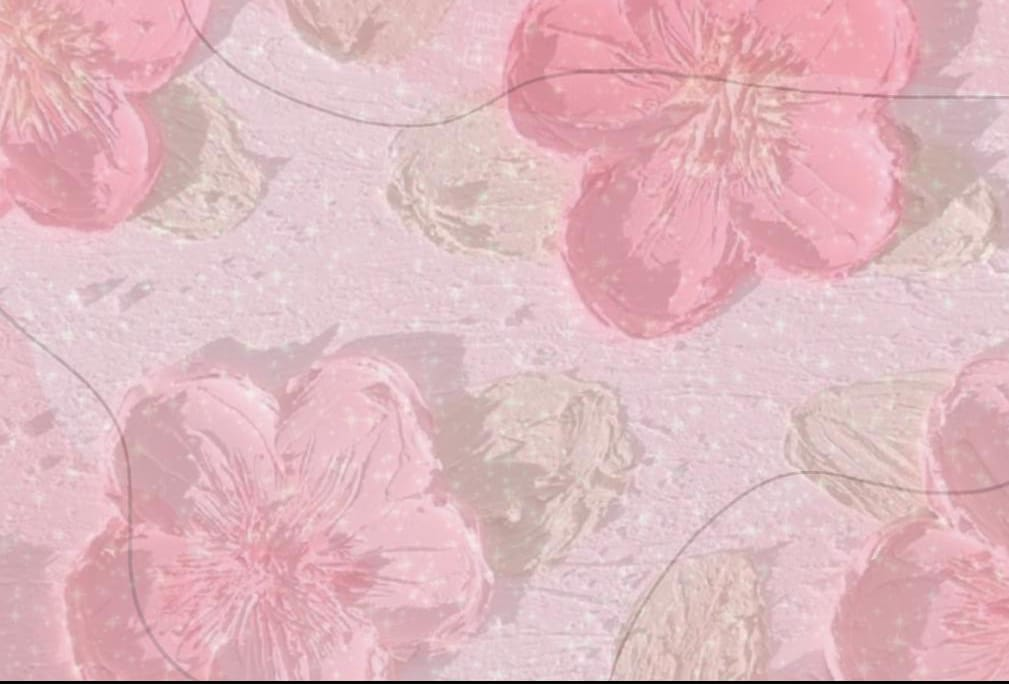
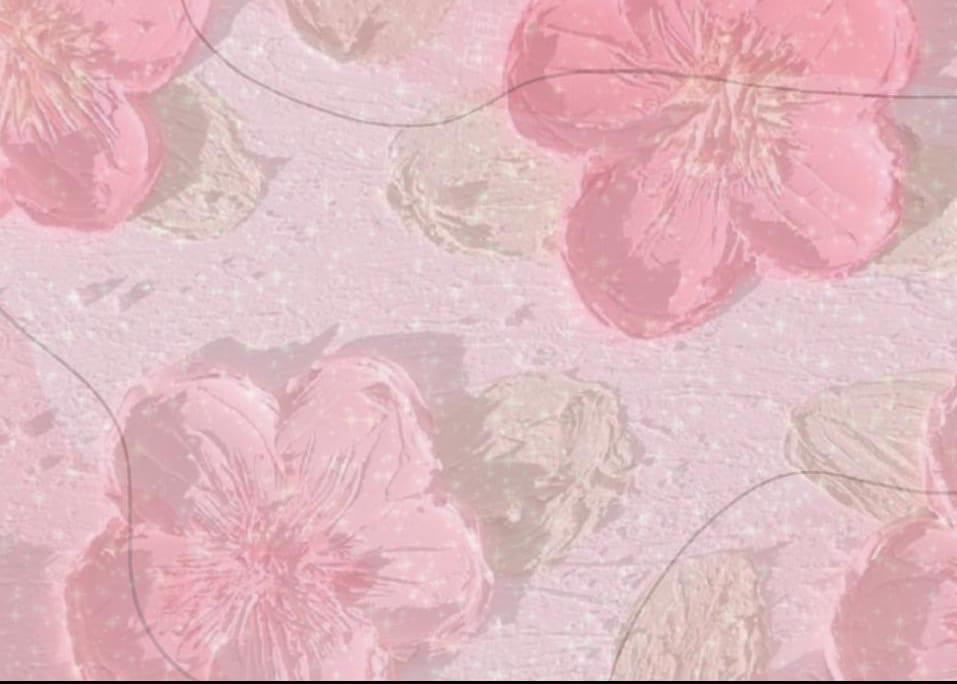
Refactor project structure and complete core option panels
- Moved and reorganized state classes into gui.states package
- Centralized utility class in gui.utils (ImageUtils)
- Updated CakeBuilderScreen and related GUI components structure
- Organized image assets into logical categories (sponges, icings, flowers, backgrounds)
- Completed Sponge, Icing, and Flower option panels
- Improved overall project maintainability, readability, and UI workflow consistency

diff --git a/src/gui/screens/CakeBuilderScreen.java b/src/gui/screens/CakeBuilderScreen.java
@@ -1,5 +1,9 @@
 package gui.screens;
 
+import gui.states.FlowerMode;
+import gui.states.IcingMode;
+import gui.states.SpongeMode;
+
 import javax.swing.*;
 import java.awt.*;
 import java.util.Objects;
@@ -7,21 +11,19 @@ import java.util.Objects;
 public class CakeBuilderScreen extends JFrame {
 
     Image previewBg=new ImageIcon("resources/images/backgrounds/yellowCoffee.png").getImage();
-    Image spongeScreenBg=new ImageIcon("resources/images/backgrounds/blueClouds.png").getImage();
-    Image icingScreenBg =new ImageIcon("resources/images/backgrounds/greenCotton.png").getImage();
-    Image flowerScreenBg=new ImageIcon("resources/images/backgrounds/pinkFlowers.png.png").getImage();
-    Image optionsBg=spongeScreenBg;
+    Image optionsBg;
+
+
+    private JLabel optionsTitle = new JLabel();
 
     Font ruschaleFont;
-
 
     enum State{
         SPONGE_SELECTION_SCREEN,
         ICING_SELECTION_SCREEN,
         FLOWER_SELECTION_SCREEN
     }
-
-    private State state = State.SPONGE_SELECTION_SCREEN;
+    private State state = State.FLOWER_SELECTION_SCREEN;
 
     JPanel options = new JPanel(new BorderLayout()){
         @Override
@@ -39,13 +41,8 @@ public class CakeBuilderScreen extends JFrame {
         }
     };
 
-    OptionButtons spongeOptionButtons = new OptionButtons();
-    OptionButtons icingOptionButtons = new OptionButtons();
-    OptionButtons flowerOptionButtons = new OptionButtons();
-
     JSplitPane screenSplit = new JSplitPane(JSplitPane.HORIZONTAL_SPLIT, options, preview);
 
-    JLabel optionsTitle = new JLabel();
 
     public CakeBuilderScreen(){
 
@@ -53,7 +50,7 @@ public class CakeBuilderScreen extends JFrame {
         setSize(1400, 1000);
         setDefaultCloseOperation(EXIT_ON_CLOSE);
 
-        add(screenSplit);
+        this.add(screenSplit);
 
         try{
             ruschaleFont = Font.createFont(Font.TRUETYPE_FONT, Objects.requireNonNull(getClass().getResourceAsStream("/fonts/Amsterdune-K7a8p.otf"))
@@ -74,37 +71,40 @@ public class CakeBuilderScreen extends JFrame {
         screenSplit.setDividerLocation(0.66);
         screenSplit.setEnabled(false);
         screenSplit.setDividerSize(3);
-        //preview.setBackground(new Color(255, 220, 105, 229));  ADDS PLAIN BACKGROUND COLOR TO PREVIEW PANEL
     }
 
-    private void setOptionsBackgroung(Image image){
-        optionsBg = image;
+    public void setOptionsBg(Image image){
+        this.optionsBg = image;
         options.repaint();
+    }
+
+    public void setOptionsTitle(String optionsTitle){
+        this.optionsTitle.setText(optionsTitle);
+    }
+
+    public void setOptionsPanel(JPanel panel){
+        options.add(panel);
     }
 
     private void renderScreen(){
         switch (state){
             case SPONGE_SELECTION_SCREEN: {
-                setOptionsBackgroung(spongeScreenBg);
-                optionsTitle.setText("Choose your cakes sponge base!");
-
-
+                SpongeMode spongeMode=new SpongeMode(this);
             }
             break;
             case ICING_SELECTION_SCREEN: {
-                setOptionsBackgroung(icingScreenBg);
-
+                IcingMode icingMode=new IcingMode(this);
             }
             break;
             case FLOWER_SELECTION_SCREEN: {
-                setOptionsBackgroung(flowerScreenBg);
-
+                FlowerMode flowerMode=new FlowerMode(this);
             }
             break;
         }
     }
 
     public static void main(String[] s){
-        new CakeBuilderScreen();
+        CakeBuilderScreen c=new CakeBuilderScreen();
+        System.out.println("CakeBuilderScreen constructor running");
     }
 }

diff --git a/src/gui/components/OptionButtonsPanel.java b/src/gui/components/OptionButtonsPanel.java
@@ -1,0 +1,61 @@
+package gui.components;
+
+import javax.swing.*;
+import java.awt.*;
+import java.util.Objects;
+
+public class OptionButtonsPanel extends JPanel {
+
+    Font ruschaleFont;
+
+    private JButton option1 = new JButton();
+    private JButton option2 = new JButton();
+    private JButton option3 = new JButton();
+    private JButton option4 = new JButton();
+
+    public OptionButtonsPanel(){
+
+        try{
+            ruschaleFont = Font.createFont(Font.TRUETYPE_FONT, Objects.requireNonNull(getClass().getResourceAsStream("/fonts/Amsterdune-K7a8p.otf"))
+            ).deriveFont(100f);
+        } catch (Exception e){
+            ruschaleFont = new Font("Serif",Font.BOLD, 48);
+        }
+
+        this.setLayout(new GridLayout(2,2,10,10));
+        this.setBorder(BorderFactory.createEmptyBorder(50,200,75,0));
+        this.setBackground(new Color(0,0,0,0));
+        this.setOpaque(false);
+
+        this.add(this.option1);
+        this.add(this.option2);
+        this.add(this.option3);
+        this.add(this.option4);
+    }
+
+    private void setOptionButton(JButton button, ImageIcon image, String buttonText){
+        button.setIcon(image);
+        button.setText(buttonText);
+        button.setHorizontalTextPosition(SwingConstants.CENTER);
+        button.setVerticalTextPosition(SwingConstants.CENTER);
+        button.setFont(ruschaleFont);
+        button.setForeground(Color.WHITE);
+    }
+
+    public void setOption1(ImageIcon image, String buttonText){
+        setOptionButton(this.option1, image, buttonText);
+    }
+
+    public void setOption2(ImageIcon image, String buttonText){
+        setOptionButton(this.option2, image, buttonText);
+    }
+
+    public void setOption3(ImageIcon image, String buttonText){
+        setOptionButton(this.option3, image, buttonText);
+    }
+
+    public void setOption4(ImageIcon image, String buttonText){
+        setOptionButton(this.option4, image, buttonText);
+    }
+
+}

diff --git a/src/gui/states/IcingMode.java b/src/gui/states/IcingMode.java
@@ -1,0 +1,33 @@
+package gui.states;
+
+import gui.components.OptionButtonsPanel;
+import gui.screens.CakeBuilderScreen;
+import gui.utils.ImageUtils;
+
+import javax.swing.*;
+import java.awt.*;
+
+public class IcingMode {
+
+    Image icingScreenBg=new ImageIcon("resources/images/backgrounds/greenCotton.png").getImage();
+
+    ImageIcon chocolateOption= ImageUtils.scaleIcon("resources/images/options/icings/chocolateIcing.png");
+    ImageIcon coffeeOption = ImageUtils.scaleIcon("resources/images/options/icings/coffee.png");
+    ImageIcon cookiesAndCreamOption = ImageUtils.scaleIcon("resources/images/options/icings/cookiesNcream.png");
+    ImageIcon strawberryOption = ImageUtils.scaleIcon("resources/images/options/icings/strawberry.png");
+
+    OptionButtonsPanel icingOptionButtons = new OptionButtonsPanel();
+
+    public IcingMode(CakeBuilderScreen cakeBuilderScreen){
+        cakeBuilderScreen.setOptionsBg(icingScreenBg);
+        cakeBuilderScreen.setOptionsTitle("Choose your cakes icing!");
+        cakeBuilderScreen.setOptionsPanel(icingOptionButtons);
+
+        icingOptionButtons.setOption1(chocolateOption,"Chocolate");
+        icingOptionButtons.setOption2(coffeeOption,"Coffee");
+        icingOptionButtons.setOption3(strawberryOption,"Strawberry");
+        icingOptionButtons.setOption4(cookiesAndCreamOption,"Cookies");
+
+    }
+
+}

diff --git a/src/gui/states/SpongeMode.java b/src/gui/states/SpongeMode.java
@@ -1,0 +1,33 @@
+package gui.states;
+
+import gui.components.OptionButtonsPanel;
+import gui.screens.CakeBuilderScreen;
+import gui.utils.ImageUtils;
+
+import javax.swing.*;
+import java.awt.*;
+
+public class SpongeMode {
+
+    Image spongeScreenBg=new ImageIcon("resources/images/backgrounds/blueClouds.png").getImage();
+
+    ImageIcon chocolateOption= ImageUtils.scaleIcon("resources/images/options/sponges/chocolateSponge.png");
+    ImageIcon pistachioOption= ImageUtils.scaleIcon("resources/images/options/sponges/pistachio.png");
+    ImageIcon redVelvetOption= ImageUtils.scaleIcon("resources/images/options/sponges/redVelvet.png");
+    ImageIcon vanillaOption= ImageUtils.scaleIcon("resources/images/options/sponges/vanilla.png");
+
+    OptionButtonsPanel spongeOptionButtons = new OptionButtonsPanel();
+
+    public SpongeMode(CakeBuilderScreen cakeBuilderScreen){
+        cakeBuilderScreen.setOptionsBg(spongeScreenBg);
+        cakeBuilderScreen.setOptionsTitle("Choose your cakes sponge base!");
+        cakeBuilderScreen.setOptionsPanel(spongeOptionButtons);
+
+        spongeOptionButtons.setOption1(chocolateOption,"Chocolate");
+        spongeOptionButtons.setOption2(pistachioOption,"Pista");
+        spongeOptionButtons.setOption3(redVelvetOption,"Red Velvet");
+        spongeOptionButtons.setOption4(vanillaOption,"Vanilla");
+
+    }
+
+}

diff --git a/src/gui/states/FlowerMode.java b/src/gui/states/FlowerMode.java
@@ -1,0 +1,33 @@
+package gui.states;
+
+import gui.components.OptionButtonsPanel;
+import gui.screens.CakeBuilderScreen;
+import gui.utils.ImageUtils;
+
+import javax.swing.*;
+import java.awt.*;
+
+public class FlowerMode {
+
+    Image flowerScreenBg=new ImageIcon("resources/images/backgrounds/pinkFlowers.png").getImage();
+
+    ImageIcon lavenderOption = ImageUtils.scaleIcon("resources/images/options/flowers/lavender.png");
+    ImageIcon roseOption = ImageUtils.scaleIcon("resources/images/options/flowers/rose.png");
+    ImageIcon sunFLowerOption = ImageUtils.scaleIcon("resources/images/options/flowers/sunFlower.png");
+    ImageIcon vanillaOption= ImageUtils.scaleIcon("resources/images/options/flowers/vanilla.png");
+
+    OptionButtonsPanel flowerOptionButtons = new OptionButtonsPanel();
+
+    public FlowerMode(CakeBuilderScreen cakeBuilderScreen){
+        cakeBuilderScreen.setOptionsBg(flowerScreenBg);
+        cakeBuilderScreen.setOptionsTitle("Choose your cakes floral theme!");
+        cakeBuilderScreen.setOptionsPanel(flowerOptionButtons);
+
+        flowerOptionButtons.setOption1(lavenderOption,"Lavender");
+        flowerOptionButtons.setOption2(roseOption,"Rose");
+        flowerOptionButtons.setOption3(sunFLowerOption,"Sun Flower");
+        flowerOptionButtons.setOption4(vanillaOption, "Vanilla");
+
+    }
+
+}

diff --git a/src/gui/utils/ImageUtils.java b/src/gui/utils/ImageUtils.java
@@ -1,0 +1,14 @@
+package gui.utils;
+
+import javax.swing.*;
+import java.awt.*;
+
+public class ImageUtils {
+
+    public static ImageIcon scaleIcon(String path){
+        ImageIcon icon = new ImageIcon(path);
+        Image img = icon.getImage().getScaledInstance(340,340, Image.SCALE_SMOOTH);
+        return new ImageIcon(img);
+    }
+
+}
